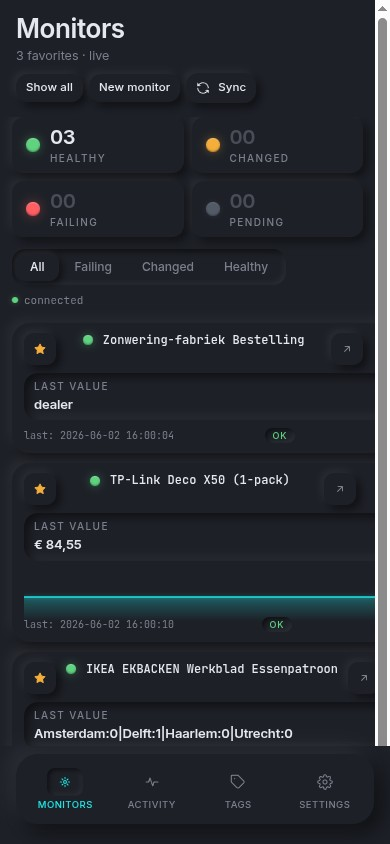
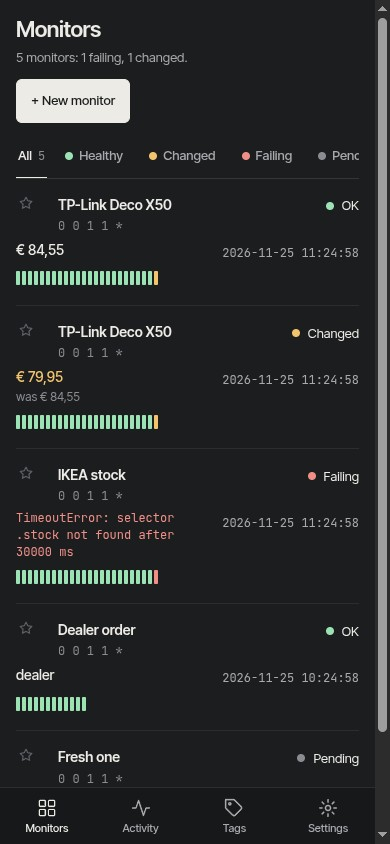
fix(ui): layout fixes after visual check, new README screenshot (CHW-11)

diff --git a/app/templates/monitor_editor.html b/app/templates/monitor_editor.html
@@ -28,6 +28,9 @@
   .editor-grid.custom-file .editor-left { display: none; }
   .custom-file .raw-wrap { height: 560px; }
 
+  .editor-grid > * { min-width: 0; }
+  .cron-fields > div { min-width: 0; }
+  .editor-left .input, .editor-right .input { box-sizing: border-box; max-width: 100%; }
   .form-section { padding: 0 0 24px; margin-bottom: 24px; border-bottom: 1px solid var(--line); }
   .form-section:last-child { border-bottom: 0; margin-bottom: 0; }
   .form-section h2 { font: 600 15px var(--sans); margin-bottom: 14px; }
@@ -108,7 +111,7 @@
     .cron-fields { gap: 4px; }
     .helpers-drawer { top: auto; left: 0; width: 100%; height: 70vh; border-left: 0; border-top: 1px solid var(--line-2); border-radius: 12px 12px 0 0; transform: translateY(100%); }
     .helpers-drawer.open { transform: translateY(0); }
-    .topbar-right { position: fixed; left: 0; right: 0; bottom: 56px; z-index: 20; background: var(--bg); border-top: 1px solid var(--line-2); padding: 8px 16px; display: grid !important; grid-template-columns: 1fr 1fr 2fr; gap: 8px; }
+    .topbar-right { position: fixed; left: 0; right: 0; bottom: 56px; z-index: 20; background: var(--bg); border-top: 1px solid var(--line-2); padding: 8px 16px; display: grid !important; grid-template-columns: 1fr 2fr; gap: 8px; }
     #git-status { display: none; }
     #btn-helpers { display: none; }
     .content-body { padding-bottom: 72px; }

diff --git a/app/templates/monitor_detail.html b/app/templates/monitor_detail.html
@@ -31,7 +31,8 @@
 
   .runs-cols, .run-row-main {
     display: grid;
-    grid-template-columns: 170px 120px 90px 1fr 20px;
+    grid-template-columns: 170px 120px 90px minmax(0, 1fr) 20px;
+    grid-template-areas: "time status dur value chev";
     gap: 14px;
     align-items: center;
   }
@@ -64,16 +65,17 @@
     .facts > div:last-child { grid-column: 1 / -1; border-bottom: 0; }
   }
   @media (max-width: 700px) {
-    .detail-topbar-right { display: grid; grid-template-columns: 1fr 1fr; gap: 8px; }
-    .detail-topbar-right .btn { width: 100%; }
-    .detail-topbar-right #delete-btn { grid-column: 1 / -1; }
+    .topbar-right.detail-topbar-right { display: grid; grid-template-columns: 1fr 1fr; gap: 8px; width: 100%; }
+    .topbar-right.detail-topbar-right .btn { width: 100%; }
+    .topbar-right.detail-topbar-right #delete-btn { grid-column: 1 / -1; }
     .runs-cols { display: none; }
     .run-row-main {
-      grid-template-columns: 1fr auto 20px;
-      grid-template-areas: "time status chev" "value value dur";
+      grid-template-columns: minmax(0, 1fr) auto 20px;
+      grid-template-areas: "time status chev" "value dur dur";
       gap: 4px 12px;
       padding: 12px 0;
     }
+    .run-dur { white-space: nowrap; justify-self: end; }
     .run-logs { padding: 0 0 14px; }
     .log-line { flex-wrap: wrap; gap: 2px 10px; }
     .facts dd { font-size: 17px; }

diff --git a/app/templates/dashboard.html b/app/templates/dashboard.html
@@ -35,6 +35,7 @@
   a.monitor-name:hover { text-decoration: underline; text-underline-offset: 3px; }
   .monitor-schedule { font: 12px var(--mono); color: var(--ink-3); margin-top: 3px; }
   .paused-chip { font: 500 12px var(--sans); color: var(--ink-3); margin-left: 8px; }
+  @media (min-width: 701px) { .mon-table td.c-value { min-width: 220px; max-width: 320px; } }
   .monitor-value { font-size: 14px; font-weight: 500; line-height: 1.4; }
   .monitor-value.err { font: 12px/1.4 var(--mono); color: var(--err); }
   .monitor-value.chg { color: var(--chg); }
@@ -65,7 +66,8 @@
   .empty .acts { margin-top: 20px; display: flex; gap: 8px; justify-content: center; flex-wrap: wrap; }
 
   @media (max-width: 700px) {
-    .tabs { flex-wrap: nowrap; overflow-x: auto; gap: 16px; }
+    .tabs { flex-wrap: nowrap; overflow-x: auto; gap: 16px; scrollbar-width: none; }
+    .tabs::-webkit-scrollbar { display: none; }
     .tabs button { min-height: 44px; white-space: nowrap; }
     .mon-table thead { display: none; }
     .mon-table, .mon-table tbody { display: block; }

diff --git a/app/templates/tag_detail.html b/app/templates/tag_detail.html
@@ -20,6 +20,7 @@
   a.monitor-name:hover { text-decoration: underline; text-underline-offset: 3px; }
   .monitor-schedule { font: 12px var(--mono); color: var(--ink-3); margin-top: 3px; }
   .paused-chip { font: 500 12px var(--sans); color: var(--ink-3); margin-left: 8px; }
+  @media (min-width: 701px) { .mon-table td.c-value { min-width: 220px; max-width: 320px; } }
   .monitor-value { font-size: 14px; font-weight: 500; line-height: 1.4; }
   .monitor-value.err { font: 12px/1.4 var(--mono); color: var(--err); }
   .monitor-value.chg { color: var(--chg); }

diff --git a/app/templates/activity.html b/app/templates/activity.html
@@ -40,7 +40,7 @@
     .filter-tools label { display: none; }
     .filter-count { display: none; }
     .filter-tools { padding-bottom: 0; }
-    .filter-row .seg { gap: 16px; overflow-x: auto; flex-wrap: nowrap; }
+    .filter-row .seg { gap: 16px; overflow: auto hidden; flex-wrap: nowrap; scrollbar-width: none; }
     .act-cols { display: none; }
     .day-header { padding: 14px 0 6px; }
     .activity-row {

diff --git a/app/templates/base.html b/app/templates/base.html
@@ -22,6 +22,7 @@
   <style>
     /* ── Design tokens ───────────────────────────────────────── */
     :root {
+      color-scheme: dark;
       --sans: 'Inter Tight', -apple-system, system-ui, sans-serif;
       --mono: 'JetBrains Mono', ui-monospace, 'SF Mono', Menlo, monospace;
 

diff --git a/app/templates/settings.html b/app/templates/settings.html
@@ -57,7 +57,7 @@
     .stat-mini:nth-child(-n+2) { border-bottom: 1px solid var(--line); }
     .channel-row { flex-wrap: wrap; }
     .log-console-wrap { height: auto; max-height: 40vh; }
-    .log-controls .seg { overflow-x: auto; }
+    .log-controls .seg { overflow: auto hidden; scrollbar-width: none; }
   }
 </style>
 {% endblock %}
